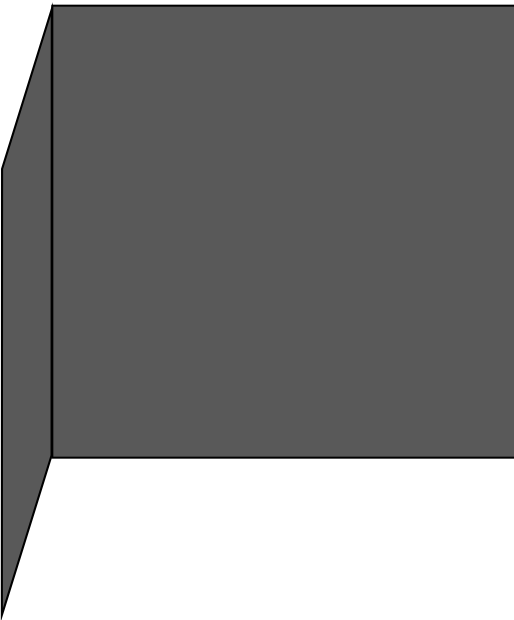
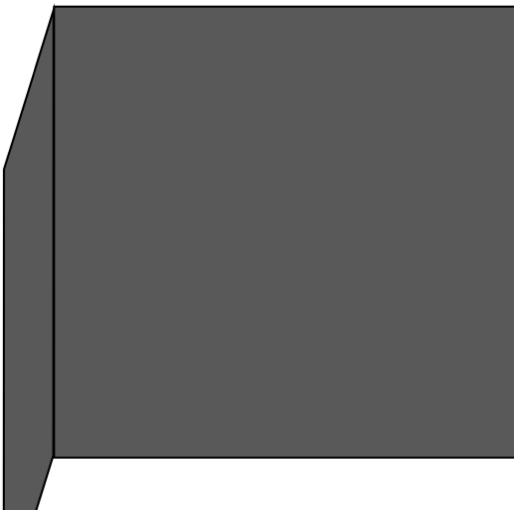
fixing barrier for kids barrier

Changed region(s): [[0.0, 0.0, 1.0, 1.0]]

diff --git a/exp/kids/kids_cue_barrier2.css b/exp/kids/kids_cue_barrier2.css
@@ -156,19 +156,19 @@ nextButton[disabled] {
 
 .barrier_l {
     position: absolute;
-    bottom: 10px;
+    bottom: 68px;
     left: 45px;
     width: 340px;
-    height: 450;
+    height: 400;
     z-index: 2
 }
 
 .barrier_r {
     position: absolute;
-    bottom: 10px;
+    bottom: 68px;
     left: 630px;
     width: 340px;
-    height: 450;
+    height: 400;
     z-index: 2
 }
 
@@ -176,20 +176,20 @@ nextButton[disabled] {
 
 .barrier_lc {
     position: absolute;
-    bottom: 10px;
+    bottom: 68px;
     left: 45px;
     width: 340px;
-    height: 450;
+    height: 400;
     z-index: 2
 }
 
 
 .barrier_rc {
     position: absolute;
-    bottom: 10px;
+    bottom: 68px;
     left: 630px;
     width: 340px;
-    height: 450;
+    height: 400;
     z-index: 2
 }
 

diff --git a/exp/kids/kids_cue_barrier2.js b/exp/kids/kids_cue_barrier2.js
@@ -485,7 +485,7 @@ eat2: function(event) {
                     showAgent(agents[0],"choice")
                    
                                       
-                    $("#"+agents[0]+"_choice").animate({left: 65, bottom: 210,width: 280,  queue: false},1000);
+                    $("#"+agents[0]+"_choice").animate({left: 68, bottom: 210,width: 280,  queue: false},1000);
                     
                    choiceLeftFruit("images/"+experiment.fruitPosition[0]+".png");
                    choiceLeftFruit2("images/"+experiment.fruitPosition.filter(function(x) { return x !== experiment.fruitPosition[0]; })+".png");
